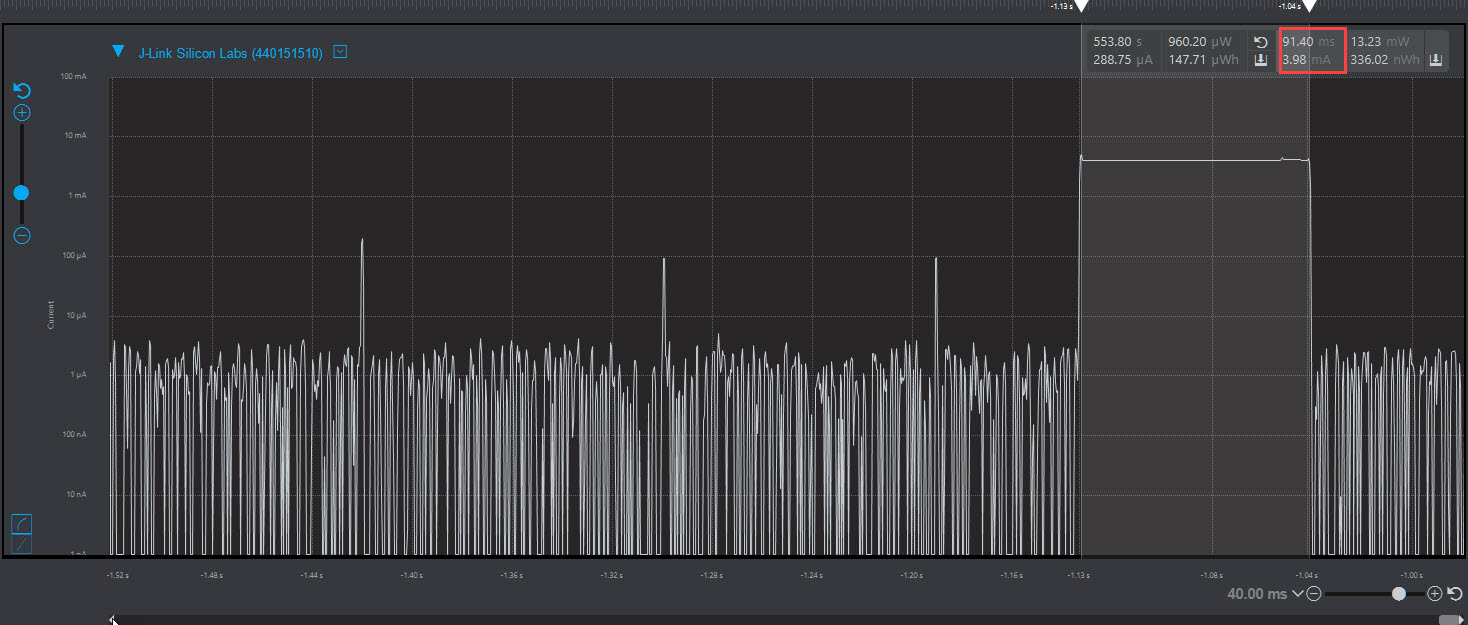
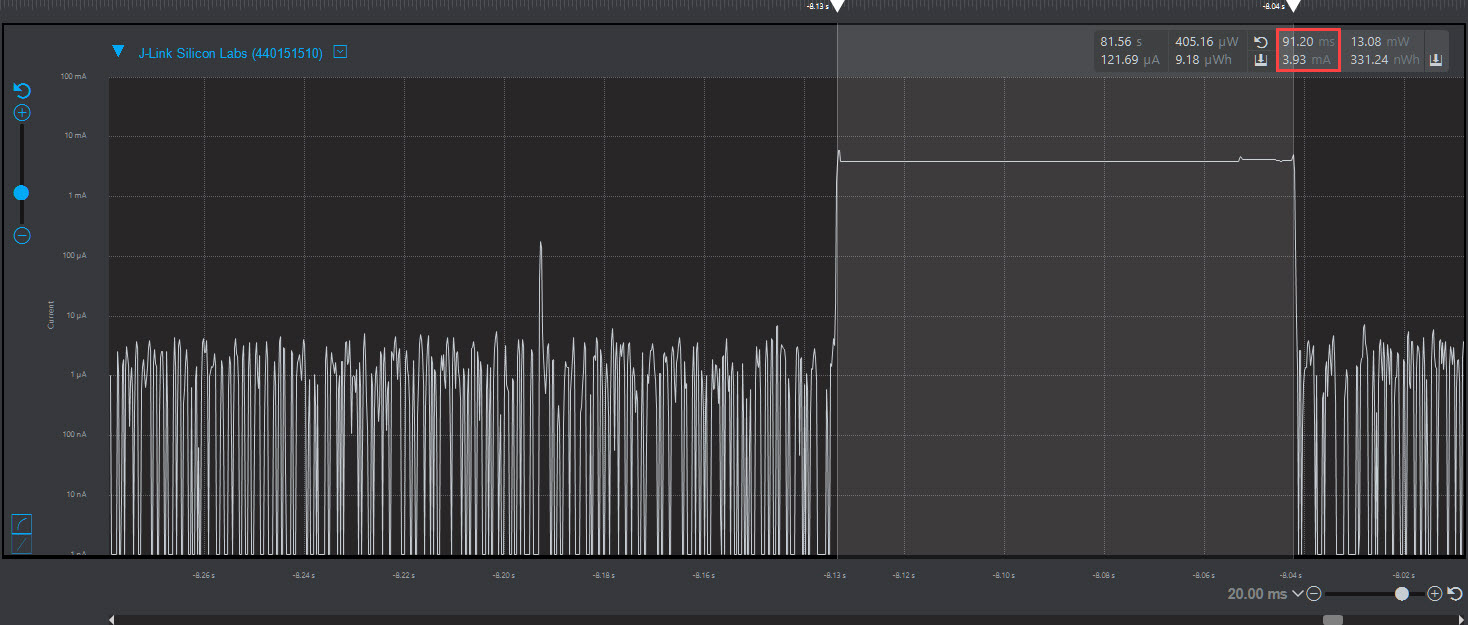
Completed assignment 3

diff --git a/src/i2c.c b/src/i2c.c
@@ -9,30 +9,23 @@
 
 #include "i2c.h"
 
-#define I2C_RXBUFFER_SIZE	2
-
-
-I2C_TransferReturn_TypeDef ret;
-I2C_TransferSeq_TypeDef txstruct;
-
-
-
 void i2c_init(void)
 {
+	// Initialize I2C using SiLabs driver
 	I2CSPM_Init_TypeDef i2c_values = I2CSPM_INIT_DEFAULT;
 	I2CSPM_Init(&i2c_values);
-
 }
 
 
 uint16_t i2c_read_2_bytes(uint8_t addr, uint8_t cmd, uint32_t delay)
 {
-	// Buffers++
+	// Buffers for I2C
 	uint8_t i2c_txBuffer[1] = {cmd};
 	uint8_t i2c_txBufferSize = sizeof(i2c_txBuffer);
 	uint8_t i2c_rxBuffer[I2C_RXBUFFER_SIZE];
 	uint16_t RXdata;
 
+	// Shift slave address to 8-bit format
 	txstruct.addr = addr << 1;
 
 	// Configure I2C structure for Write

diff --git a/src/timer.c b/src/timer.c
@@ -163,6 +163,7 @@ void disable_letimer(void)
 
 void clear_letimer(void)
 {
+	// Clear LEMTIMER0
 	LETIMER0->CMD = LETIMER_CMD_CLEAR;
 }
 
@@ -177,6 +178,7 @@ void calculate_timer(Timer_TypeDef *timer_struct)
 
 void LETIMER0_IRQHandler(void)
 {
+	__disable_irq();
 
 	LETIMER_IntDisable(LETIMER0,LETIMER_IEN_UF);
 
@@ -184,12 +186,11 @@ void LETIMER0_IRQHandler(void)
 	uint32_t flags = LETIMER_IntGet(LETIMER0);
 	LETIMER_IntClear(LETIMER0, flags);
 
-	//LETIMER_CompareSet(LETIMER0,LETimerCOMP0,letimer_struct.timer_period);
-
 	// Set bit for timer
 	event_bitmask |= 1;
 
-	//LETIMER_IntEnable(LETIMER0,LETIMER_IEN_UF);
+	__enable_irq();
+
 
 	return;
 

diff --git a/src/main.c b/src/main.c
@@ -88,6 +88,7 @@ int main(void)
 
   init_timer_interrupt();
 
+  CORE_DECLARE_IRQ_STATE;
   // Initialize BLE stack.
   // This is disabled for assignments #2, 3 and 4 as it will prevent sleep modes below EM2
   // gecko_init(&config);
@@ -105,6 +106,7 @@ int main(void)
 	  }
 	  else
 	  {
+		  CORE_ENTER_CRITICAL();
 		  if(((TIMER_EVENT_MASK & event_bitmask) >> TIMER_EVENT_MASK_POS) == 1)
 		  {
 			  disable_letimer();
@@ -113,6 +115,7 @@ int main(void)
 			  event_bitmask &= ~TIMER_EVENT_MASK;
 			  reset_timer_interrupt();
 		  }
+		  CORE_EXIT_CRITICAL();
 	  }
 
 

diff --git a/src/Si7021.c b/src/Si7021.c
@@ -32,10 +32,12 @@ float read_temp(void)
 
 	enable_si7021_power();
 
-	delay_us(80000);
+	delay_us(POWER_UP_DELAY);
 
+	// Read 2 bytes of data
 	temp_code = i2c_read_2_bytes(Si7021Addr,READ_TEMP_NO_HOLD,CONVERSION_DELAY);
 
+	// Calculate temperature from raw Si7021 data
 	temperature = ((175.72 * temp_code)/65536)-46.85;
 
 	LOG_INFO("Temperature in degrees C: %f",temperature);

diff --git a/src/i2c.h b/src/i2c.h
@@ -13,9 +13,11 @@
 #include "i2cspm.h"
 #include "em_i2c.h"
 
-// Power Load control
-// Port D
-// Pin 15
+#define I2C_RXBUFFER_SIZE	2
+
+I2C_TransferReturn_TypeDef ret;
+I2C_TransferSeq_TypeDef txstruct;
+
 
 /**
  * @description:  Initialize EFR32 I2C to Si7021 interface

diff --git a/questions/Assignment3-I2CLoadPowerManagement.md b/questions/Assignment3-I2CLoadPowerManagement.md
@@ -6,15 +6,15 @@ See [Mastering Markdown](https://guides.github.com/features/mastering-markdown/)
 *Please include screenshots of the profiler window detailing each current measurement captured.  See [Shared document](https://docs.google.com/document/d/1Ro9G2Nsr_ZXDhBYJ6YyF9CPivb--6UjhHRmVhDGySag/edit?usp=sharing) for instructions.* 
 
 1. What is the average current per period?   
-   Answer:112.99uA
+   Answer:120.67uA
    <br>Screenshot:  
    ![Avg_current_per_period](screenshots_i2c_load/Avg_current_per_period.jpg)  
 2. What is the average current when the Si7021 is Load Power Management OFF?  
-   Answer:1.58uA
+   Answer:1.29uA
    <br>Screenshot:  
    ![Avg_current_lpmOFF](screenshots_i2c_load/Avg_current_lpmOFF.jpg)
 3. What is the average current when the Si7021 is Load Power Management ON?  
-   Answer:3.98mA
+   Answer:3.93mA
    <br>Screenshot:  
    ![Avg_current_lpmON](screenshots_i2c_load/Avg_current_lpmON.jpg)
 4. How long is the Si7021 Load Power Management ON for 1 temperature reading?  
